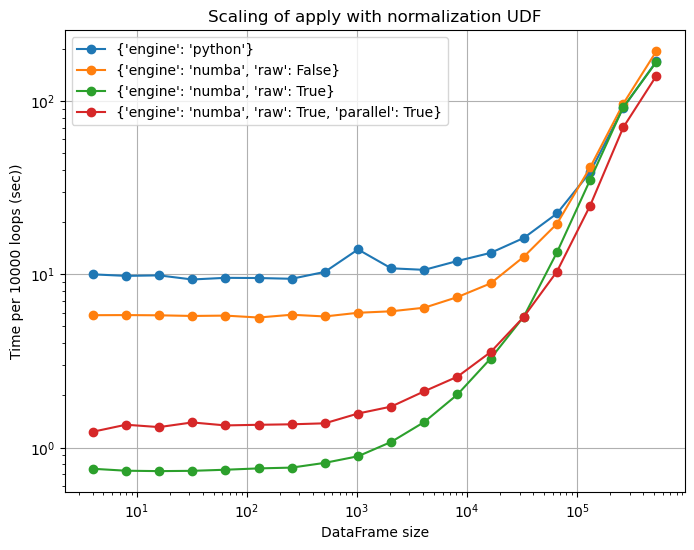
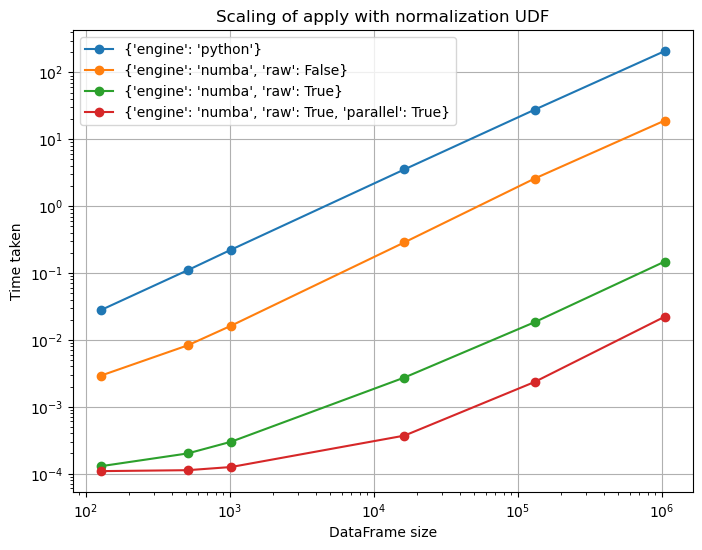
Update code

diff --git a/apps/labs/posts/unlocking-c-level-performance-in-df-apply.md b/apps/labs/posts/unlocking-c-level-performance-in-df-apply.md
@@ -396,16 +396,13 @@ To conclude our analysis, let's finish with a log-log plot running the normaliza
 1,000,000 rows, but you can run the script for larger sizes yourself if you'd like)
 
 ```python
-import numpy as np
-import pandas as pd
-import timeit
 import matplotlib.pyplot as plt
 
 f = lambda x: (x - x.mean()) / (np.std(x.values))
 raw_f = lambda x: (x-x.mean()) / x.std()
 
 def time_numba(timing_func, func_name, save=False):
-    def time_sizes(kwargs, engine_kwargs, n_loops=10000):
+    def time_sizes(kwargs, engine_kwargs, n_loops=200):
         times = []
         for size in sizes:
             times.append(timing_func(size, kwargs=kwargs, engine_kwargs=engine_kwargs, n_loops=n_loops))
@@ -413,8 +410,10 @@ def time_numba(timing_func, func_name, save=False):
         return times
 
 
-    sizes = 2**np.arange(2, 20)  # 2**16 -> ~65000,  2**22 -> ~4e6
-    n_loops = 10000
+    #sizes = 2**np.arange(2, 20)  # 2**16 -> ~65000,  2**22 -> ~4e6
+    # Running for sizes about
+    # 500, 1k, 15k, 130k, ~1mil
+    sizes = [2**7, 2**9, 2**10, 2**14, 2**17, 2**20]
 
     fig, ax = plt.subplots(nrows=1, ncols=1, figsize=(8, 6))
 
@@ -422,14 +421,17 @@ def time_numba(timing_func, func_name, save=False):
                      ({"engine": "numba", "raw": False},{}),
                      ({"engine": "numba", "raw": True},{}),
                      ({"engine": "numba", "raw": True},{"parallel": True})]
-    for kwargs, engine_kwargs in full_kwargs:
+    # We also set n_loops, otherwise
+    # the Python engine will take way to long on the larger sizes
+    n_loops_lst = [1, 1, 1, 1]
+    for (kwargs, engine_kwargs), n_loops in zip(full_kwargs, n_loops_lst):
         label_dict = kwargs.copy()
         label_dict.update(engine_kwargs)
         ax.loglog(sizes, time_sizes(kwargs, engine_kwargs, n_loops), 'o-', label=str(label_dict))
 
         ax.grid(True)
         ax.set_xlabel('DataFrame size')
-        ax.set_ylabel('Time per {} loops (sec))'.format(n_loops))
+        ax.set_ylabel('Time taken')
         ax.set_title('{}'.format(func_name))
 
     ax.legend(loc='best', numpoints=1)
@@ -441,16 +443,13 @@ def time_numba(timing_func, func_name, save=False):
 
 def time_normalization(size, kwargs, engine_kwargs, n_loops):
     df = pd.DataFrame({"a": np.random.randn(size), "b": np.random.randint(0, size, size), "c": np.random.randn(size)})
-    # Timeit doesn't figure out number of repetitions automatically,
-    # unless used via `python -m timeit`
-    div = np.log2(size)
     if "raw" in kwargs and kwargs["raw"]:
         func = raw_f
     else:
         func = f
     namespace = locals().copy()
-    expr = "df.apply(func, **kwargs, engine_kwargs=engine_kwargs)"
-    return div * min(timeit.repeat(expr, number=int(n_loops/div), globals=namespace))
+    expr = "df.apply(func, axis=1, **kwargs, engine_kwargs=engine_kwargs)"
+    return min(timeit.repeat(expr, number=n_loops, globals=namespace)) / n_loops
 
 fig, axes = time_numba(time_normalization, 'Scaling of apply with normalization UDF', save=False)
 plt.show()
@@ -458,8 +457,9 @@ plt.show()
 
 <img src='/posts/unlocking-c-level-performance-in-df-apply/loglogplot.png' alt="A log log plot of the normalization function being ran with various sizes"></img>
 
-As we can see, the numba engine is pretty consistently faster than the Python engine from the get go, and using the parallel mode of the numba engine
-with `raw=True`, starts to become worth it after around 10,000 rows.
+As we can see, the numba engine is pretty consistently faster than the Python engine from the get go, even from small sizes of ~100 rows.
+Parallel mode also matches the speed of the non parallel mode at small sizes (for this particular functio at least, you might see a slowdown
+for others), and starts to provide good speedups for DataFrames with greater than 10,000 rows.
 
 ## Conclusion
 
